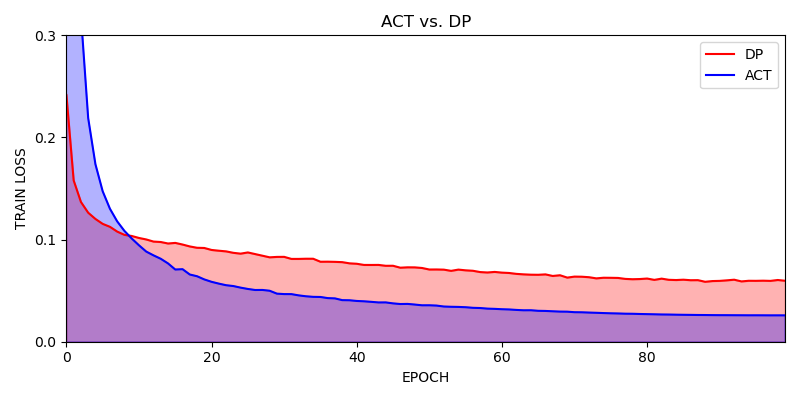
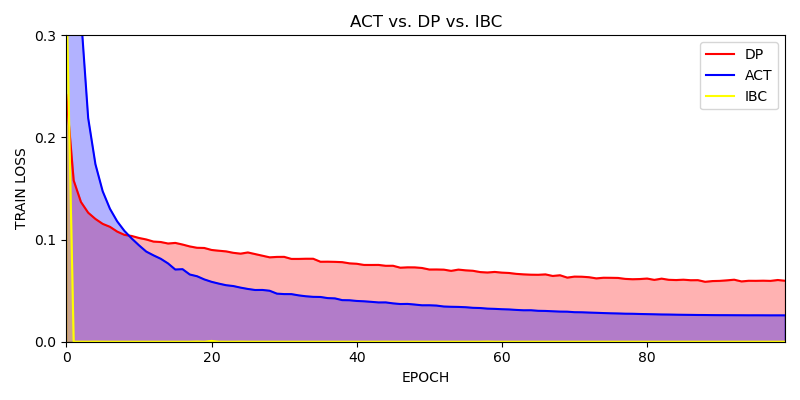
8-29 rewirte exp.md

Changed region(s): [[0.0625, 0.18, 0.9688, 0.87], [0.4375, 0.03, 0.625, 0.09], [0.875, 0.21, 0.9688, 0.27]]

diff --git a/documents/experiments.md b/documents/experiments.md
@@ -1,133 +1,135 @@
-## Environment Settings
 
-### ACT
 
-| Hyperparams           | Definition | Value |
-| --------------------- | ---------- | ----- |
-| learning rate         |            | 1e-5  |
-| batch size            |            | 64    |
-| encoder layer         |            | 6     |
-| decoder layer         |            | 6     |
-| feedforward dimension |            | 2048  |
-| hidden dimension      |            | 512   |
-| heads                 |            | 8     |
-| dropout               |            | 0.1   |
-| chunk size            |            | 10    |
+# TRAINING
 
-### IBC
+## TRAINING PARAMETERS SETTINGS
 
-| Hyperparams    | Definition                                               | Value |
-| -------------- | -------------------------------------------------------- | ----- |
-| learning rate  |                                                          | 1e-4  |
-| batch size     |                                                          | 64    |
-| pred_n_iter    | the number of updating samples                           | 5     |
-| n_obs_steps    | the step number of obs that the model prediction depends | 2     |
-| n_action_steps | the step number of executing action                      | 8     |
-| horizon        | the step number of predicted action                      | 10    |
+### Diffusion Policy
 
-### DP
+|             | name                     | definition                                                   | value             |
+| ----------- | ------------------------ | ------------------------------------------------------------ | ----------------- |
+| DDPM        | beta_start               | the starting beta value of inference                         | 0.0001            |
+|             | beta_end                 | the final beta value                                         | 0.02              |
+|             | beta_schedule            | the beta schedule, a mapping from a beta range to a sequence of betas for stepping the model | squaredcos_cap_v2 |
+| task        | horizon                  | the step number of predicted action                          | 10                |
+|             | n_action_steps           | the step number of executing action                          | 8                 |
+|             | n_obs_steps              | the step number of obs that the model prediction depends     | 2                 |
+|             | crop_shape               | the target image dimension after cropping                    | [76, 76]          |
+| transformer | n_layer                  | the layer of decoder/encoder                                 | 8                 |
+|             | n_head                   | head number of multi-head attention                          | 4                 |
+|             | n_emb                    | embedding dimension                                          | 256               |
+|             | p_drop_emb               | drop prob of nn.Dropout before encoder/decoder               | 0.0               |
+|             | p_drop_attn              | drop prob of nn.Dropout in transformer layer                 | 0.3               |
+| EMA         | inv_gamma                | inverse multiplicative factor of EMA warmup                  | 1.0               |
+|             | power                    | exponential factor of EMA warup                              | 0.75              |
+|             | min_value                | the minimum EMA decay rate                                   | 0.0               |
+|             | max_value                | the maximum EMA decay rate                                   | 0.9999            |
+| dataloader  | batch_size               | batch size                                                   | 64                |
+| optimizer   | transformer_weight_decay | transformer weight decay                                     | 1.0e-3            |
+|             | obs_encoder_weight_decay | obs encoder weight decay                                     | 1.0e-6            |
+|             | learning_rate            | learning rate                                                | 1.0e-4            |
+|             | betas                    | decay rate of first-order moment and second-order moment     | [0.9, 0.95]       |
 
-DDMP algorithm hyperparameters of policy, it can affect the denoising performance.
+### Action Chunk Transformer Policy
 
-| name          | definition                                                   | value             |
-| ------------- | ------------------------------------------------------------ | ----------------- |
-| beta_start    | the starting beta value of inference                         | 0.0001            |
-| beta_end      | the final beta value                                         | 0.02              |
-| beta_schedule | the beta schedule, a mapping from a beta range to a sequence of betas for stepping the model | squaredcos_cap_v2 |
+|             | name                  | definition                    | value |
+| ----------- | --------------------- | ----------------------------- | ----- |
+| optimizer   | learning rate         |                               | 1e-5  |
+| dataloader  | batch size            |                               | 64    |
+| transformer | encoder layer         | the number of encoder layers  | 6     |
+|             | decoder layer         | the number of decoder layers  | 6     |
+|             | feedforward dimension |                               | 2048  |
+|             | hidden dimension      |                               | 512   |
+|             | heads                 |                               | 8     |
+|             | dropout               |                               | 0.1   |
+| task        | chunk size            | the length of action sequence | 10    |
 
-Task configuration of policy.
+### Implicit Behavioral Cloning Policy
 
-| name           | definition                                               | value |
-| -------------- | -------------------------------------------------------- | ----- |
-| horizon        | the step number of predicted action                      | 10    |
-| n_action_steps | the step number of executing action                      | 8     |
-| n_obs_steps    | the step number of obs that the model prediction depends | 2     |
+|            | name           | definition                                               | value         |
+| ---------- | -------------- | -------------------------------------------------------- | ------------- |
+| optimizer  | learning rate  |                                                          | 1e-4          |
+|            | betas          |                                                          | [0.95, 0.999] |
+|            | eps            |                                                          | 1.0e-8        |
+|            | weight_decay   |                                                          | 1.0e-6        |
+| dataloader | batch size     |                                                          | 64            |
+| policy     | train_n_neg    | the number of negative samples                           | 100           |
+|            | n_obs_steps    | the step number of obs that the model prediction depends | 2             |
+|            | n_action_steps | the step number of executing action                      | 8             |
+|            | horizon        | the step number of predicted action                      | 10            |
+|            | crop_shape     | the target image dimension after cropping                | [76, 76]      |
 
-Image processing of policy
+## TRAINING RESULTS
 
-| name       | definition                                | value |
-| ---------- | ----------------------------------------- | ----- |
-| crop_shape | the target image dimension after cropping | 10    |
+- DP training loss: $k$ is diffusion timestep, $\epsilon^k$ denotes noise, $\epsilon_{\theta}$ denotes noise predictor, $A_t^O$ denotes original action.
+  - $Loss = MSE(\epsilon^k, \epsilon_{\theta}(O_t, A_t^0+\epsilon^k,k))$
+- ACT training loss: $q_{\phi}(z|a_{t:t+k},O_t)$ denotes encoder, $\pi_{\theta}(\widehat{a}_{t:t+k}|O_t,z)$ denotes decoder, weight $\beta$ 
+  - $Loss=MSE(\pi_{\theta}(O_t, z),a_{t:t+k})+\beta D_{KL}(q_{\phi}(z|a_{t:t+k},O_t) || N(0,1))$
+- IBC training loss: $E_{\theta}(O_t, A_t)$ denotes energy predictor
+  - $Loss=\sum^N_{i=1}-\log(p_{\theta}(A_i|O_i,\{\widehat{A}_i^j\}^{N_{neg}}_{j=1})), p_{\theta}(A_i|O_i,\{\widehat{A}_i^j\}^{N_{neg}}_{j=1})=\frac{\exp{-E_{\theta}(O_i,A_i)}}{\exp{-E_{\theta}(O_i,A_i)}+\sum^{N_{neg}}_{j=1}{\exp{-E_{\theta}(O_i,\widehat{A}_i^j)}}}$
 
-Hyperparameters of model(transformer) that the policy uses.
+### :rocket: Square
 
-| name        | definition                                     | value |
-| ----------- | ---------------------------------------------- | ----- |
-| n_layer     | the layer of decoder/encoder                   | 8     |
-| n_head      | head number of multi-head attention            | 4     |
-| n_emb       | embedding dimension                            | 256   |
-| p_drop_emb  | drop prob of nn.Dropout before encoder/decoder | 0.0   |
-| p_drop_attn | drop prob of nn.Dropout in transformer layer   | 0.3   |
+<div align="center">
+    <img src="assets/ACT_vs_DP_train_loss.png" />
+</div>
 
-EMA parameters.
+### :rocket: Can
 
-| name      | definition                                  | value  |
-| --------- | ------------------------------------------- | ------ |
-| inv_gamma | inverse multiplicative factor of EMA warmup | 1.0    |
-| power     | exponential factor of EMA warup             | 0.75   |
-| min_value | the minimum EMA decay rate                  | 0.0    |
-| max_value | the maximum EMA decay rate                  | 0.9999 |
 
-dataloader：
 
-| name        | definition                            | value |
-| ----------- | ------------------------------------- | ----- |
-| batch_size  | batch size                            | 64    |
-| num_workers | number of processes when loading data | 8     |
+### :rocket: Push T
 
-optimizer:
 
-| name                     | definition                                               | value       |
-| ------------------------ | -------------------------------------------------------- | ----------- |
-| transformer_weight_decay | transformer weight decay                                 | 1.0e-3      |
-| obs_encoder_weight_decay | obs encoder weight decay                                 | 1.0e-6      |
-| learning_rate            | learning rate                                            | 1.0e-4      |
-| betas                    | decay rate of first-order moment and second-order moment | [0.9, 0.95] |
 
-## TESTING INITIALIZATION
+# INFERENCE
 
-Use seeding reset method to initialize environment states.
+## ADDITIONAL PARAMETERS
+
+### Implicit Behavioral Cloning
+
+|           | name           | definition | value |
+| --------- | -------------- | ---------- | ----- |
+| optimizer | pred_n_iter    |            | 100   |
+|           | pred_n_samples |            | 100   |
+
+## TESTING DETAILS
+
+> The type of controlling method is OSC-pose control.
+
+### Initial State
+
+Here `state` is a 45-dimension vector, i.e. time (1) + qpos (23) + qvel (21). We can directly set the environment a initial state we’ve designed previously. Or, do things below.
+
+For `robot` initial pose, first we sample a fixed pose vector, i.e. [0, 0.19634954, 0, -2.61799388, 0, 2.94159265, 0.78539816]. Then we generate a random noise with a preset seed. Finally, we get the target pose by combine the fixed pose and the noise. The noise producing code is shown below.
 
 ```python
-for i in range(n_test):
-    seed = test_start_seed + i
-    enable_render = i < n_test_vis
-
-    def init_fn(env, seed=seed, 
-        enable_render=enable_render):
-        # setup rendering
-        # video_wrapper
-        assert isinstance(env.env, VideoRecordingWrapper)
-        env.env.video_recoder.stop()
-        env.env.file_path = None
-        if enable_render:
-            filename = pathlib.Path(output_dir).joinpath(
-                'media', wv.util.generate_id() + ".mp4")
-            filename.parent.mkdir(parents=False, exist_ok=True)
-            filename = str(filename)
-            env.env.file_path = filename
-
-        # switch to seed reset
-        assert isinstance(env.env.env, RobomimicImageWrapper)
-        env.env.env.init_state = None
-        env.seed(seed)
-
-    env_seeds.append(seed)
-    env_prefixs.append('test/')
-    env_init_fn_dills.append(dill.dumps(init_fn))
+noise = np.random.randn(len(self.init_pos)) * self.initialization_noise['magnitude']
+# the default value of initialization niose magnitude is 0.02
 ```
 
-Each epoch do one time of training loss calculation
+For `nut` initial pose, it is decided by a sampler class, but it has a x-y boundary. Actually, the environment has 2 types of nut, one called square, another called round. Their bound is specified below.
 
-![](assets/ACT_vs_DP_train_loss.png)
+```python
+# the same x range
+x_range = [-0.115, -0.11]
+# y range round | square
+y_range = ([0.11, 0.225], [-0.225, -0.11])
+```
 
-Each epoch do one time of validation loss calculation
+### Testing Results
 
-![](assets/ACT_vs_DP_val_loss.png)
+Every 5 epochs do one time of train action pred MSE calculation.
 
-Every 5 epochs do one time of train action pred MSE calculation
+$MSE = \frac{1}{n} \sum_{i=1}^{n} (a_i - \hat{a}_i)^2$ Here, $a_i$ represents i-dim of original action, $\hat{a}_i$ denotes i-dim of predicted action.
 
-![](assets/ACT_vs_DP_action_MSE.png)
+### :rocket: Square
+
+<div align="center">
+    <img src="assets/ACT_vs_DP_action_MSE.png" />
+</div>
+
+**SUCCESS RATE**
 
 |                         | ACT  | DP   | IBC  |
 | ----------------------- | ---- | ---- | ---- |
@@ -172,4 +174,13 @@ Every 5 epochs do one time of train action pred MSE calculation
 <div align="center">
     <img src="assets/IBC_SIM_FAIL.gif" width=50% />
 </div>
+### :rocket: Can
+
+
+
+### :rocket: Push T
+
+
+
+
 

diff --git a/README.md b/README.md
@@ -142,49 +142,61 @@ The work I focused on this week is to continue to explore the paper from Stanfor
 ## 2023/08/10～2023/08/16
 
 Diffusion Policy
-为了简便，将tasks和methods独立进行设计；
 
-### Tasks
-Dataset数据集接口；EnvRunner执行Policy并产生结果；config/task/.yaml这里是配置文件，包含很多参数；Env是基于gym的task environment；
-### Policy
-实现inference部分以及训练部分过程；workspace实现training&evaluation；config/.yaml这个是policy的配置文件；
+## 2023/08/17～2023/08/23
 
-- [ ] <font color='red'>使用ACT跑起来square和can</font>
+Implement ACT in `DP` code frame. 
 
-test实际上是通过env_runner实现的
+## 2023/08/24~2023/08/30
 
-完成ACT的移植有以下几个步骤：
-- [x] model
-- [ ] policy
-- [ ] workspace
-- [ ] env_runner
-- [ ] dataset 需要进行修改
+Comparative Experiments. 
 
-```python
-# 需要的输入数据
-        """
-        In ACT, its __getitem__ gets    image_data [k, c h, w],
-                                        qpos_data [14],
-                                        action_data [episode_len, 14],
-                                        is_pad [episode_len]
-                                    do preprocessing at last
-        """
-# 目前的item
-"""
-batch -> obs
-		-> actions
-"""
+- [ ] rewrite `experiments.md`, e.g. training, formulations, environment settings, and etc.
+- [x] Use IBC to execute push-t task.
+- [ ] epoch-success rate png.
+
+reward is defined in `/home/shawn/mambaforge/envs/robodiff/lib/python3.9/site-packages/robosuite/environments/manipulation/nut_assembly.py`
+
+Resets this observable's internal values (but does not reset its sensor, corrupter, delayer, or filter)
+
+```
+observables:
+
+robot0_joint_pos (7,)
+robot0_joint_pos_cos (7,)
+robot0_joint_pos_sin (7,)
+robot0_joint_vel (7,)
+robot0_eef_pos (3,)
+robot0_eef_quat (4,)
+robot0_eef_vel_lin (3,)
+robot0_eef_vel_ang (3,)
+robot0_gripper_qpos (2,)
+robot0_gripper_qvel (2,)
+agentview_image (84, 84, 3)
+robot0_eye_in_hand_image (84, 84, 3)
+world_pose_in_gripper (4, 4)
+SquareNut_pos (3,)
+SquareNut_quat (4,)
+SquareNut_to_robot0_eef_pos (3,)
+SquareNut_to_robot0_eef_quat (4,)
+RoundNut_pos (3,)
+RoundNut_quat (4,)
+RoundNut_to_robot0_eef_pos (3,)
+RoundNut_to_robot0_eef_quat (4,)
 ```
 
-再放入模型前，需要
 
-1. 合并image
-2. 只需要当前时刻的obs，并不是To
-3. 虽然说act的action有episode那么长但实际上最后放进模型的是num_queries=100；其他所有数据都是这一ts下的，action是[ts:ts+100]；
 
-假设我们合并后：obs [horizon, 2, 3, 84, 84], [horizon, 9] 
-
-	action [horizon, 7]
-
-2种解决方式就是重写一下和ACT一摸一样，第二就是obs我取第一个
+```
+robot0_joint_pos (7,)
+robot0_joint_pos_cos (7,)
+robot0_joint_pos_sin (7,)
+robot0_joint_vel (7,)
+robot0_eef_pos (3,)
+robot0_eef_quat (4,)
+robot0_eef_vel_lin (3,)
+robot0_eef_vel_ang (3,)
+robot0_gripper_qpos (2,)
+robot0_gripper_qvel (2,)
+```
 
